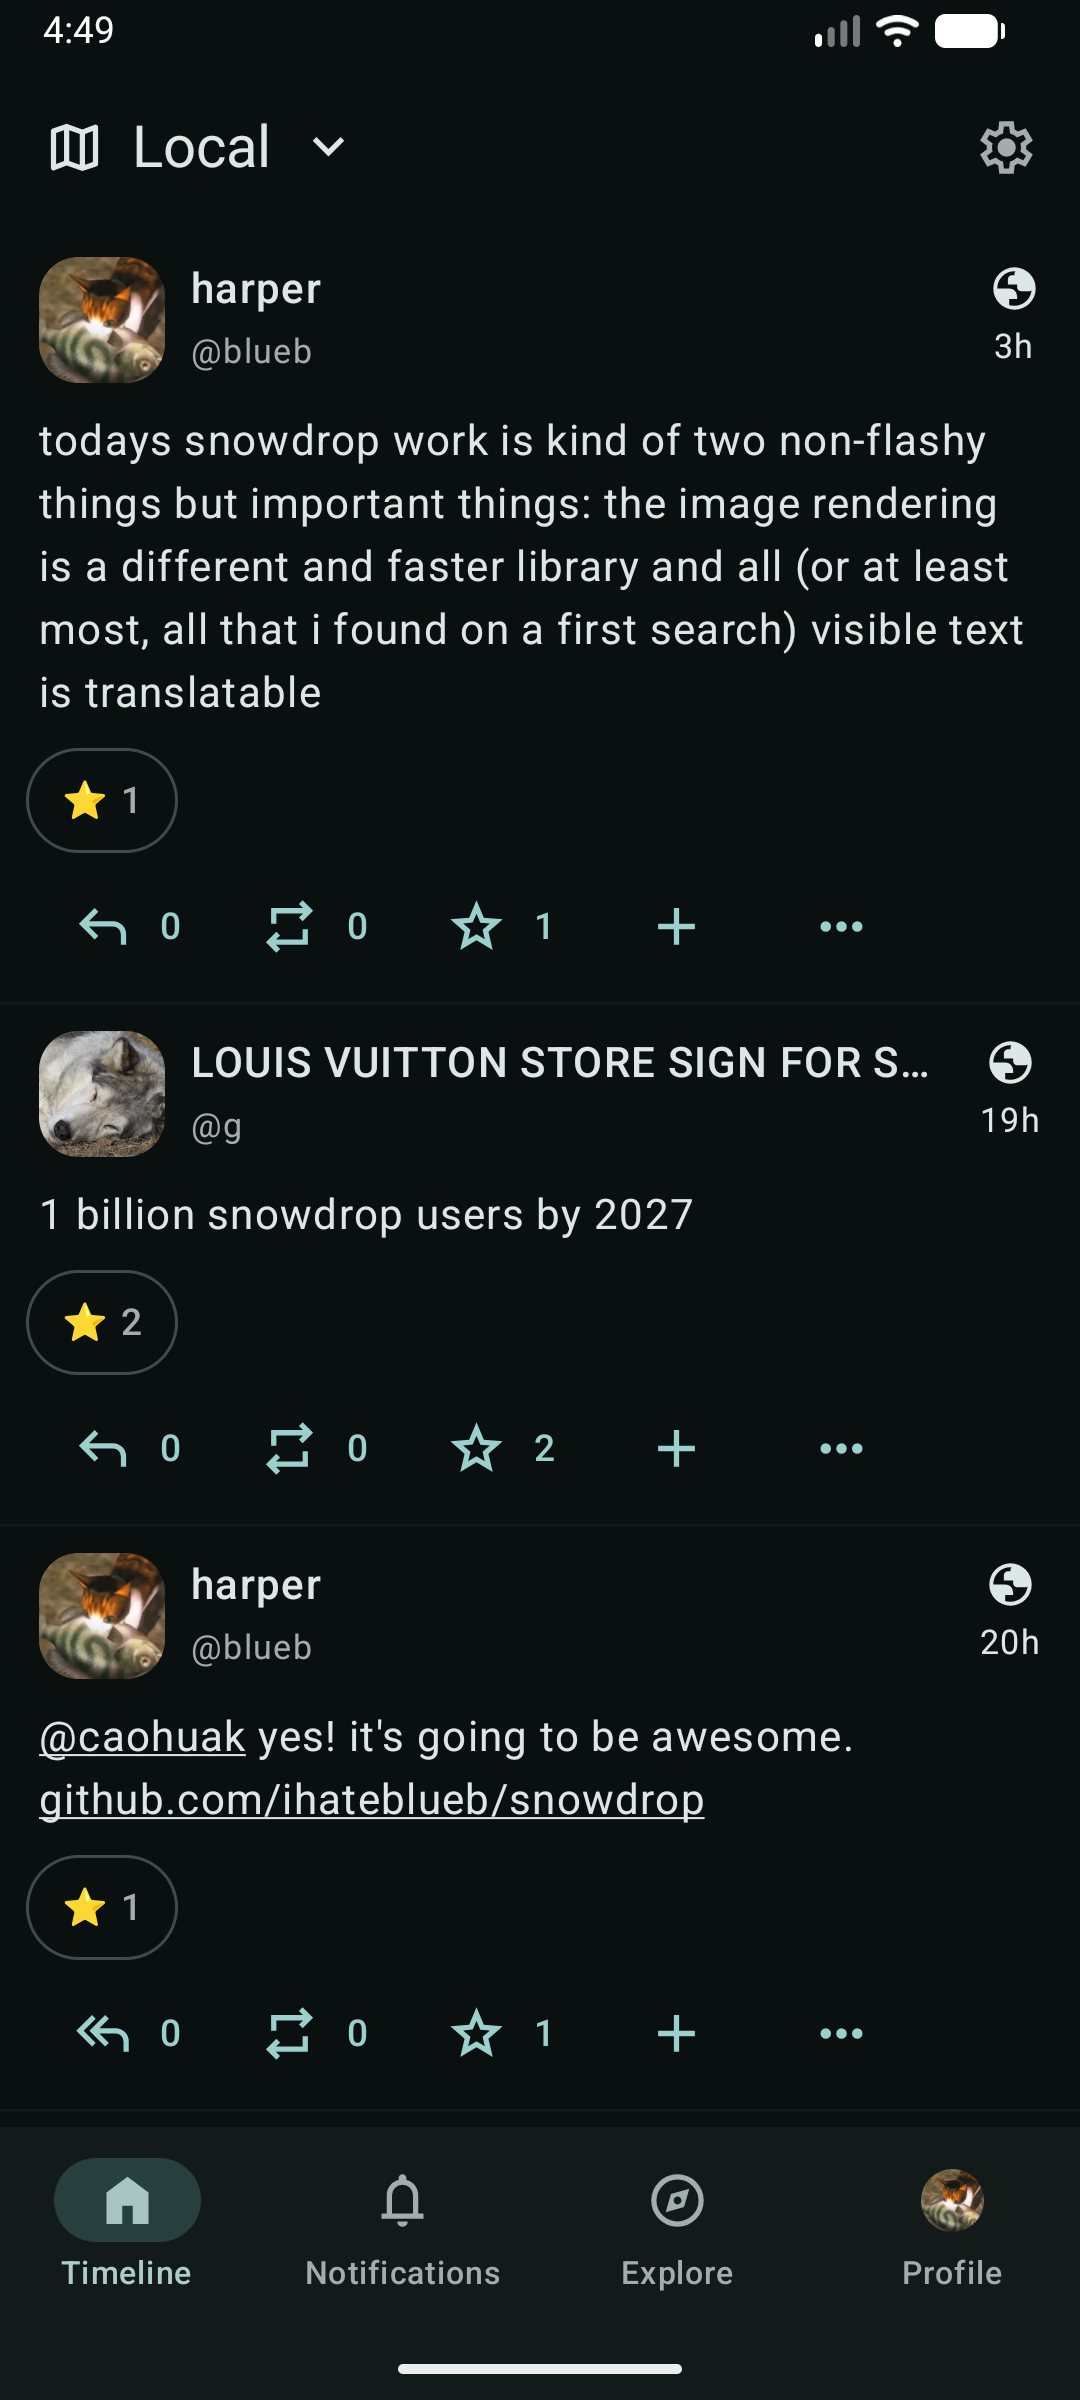
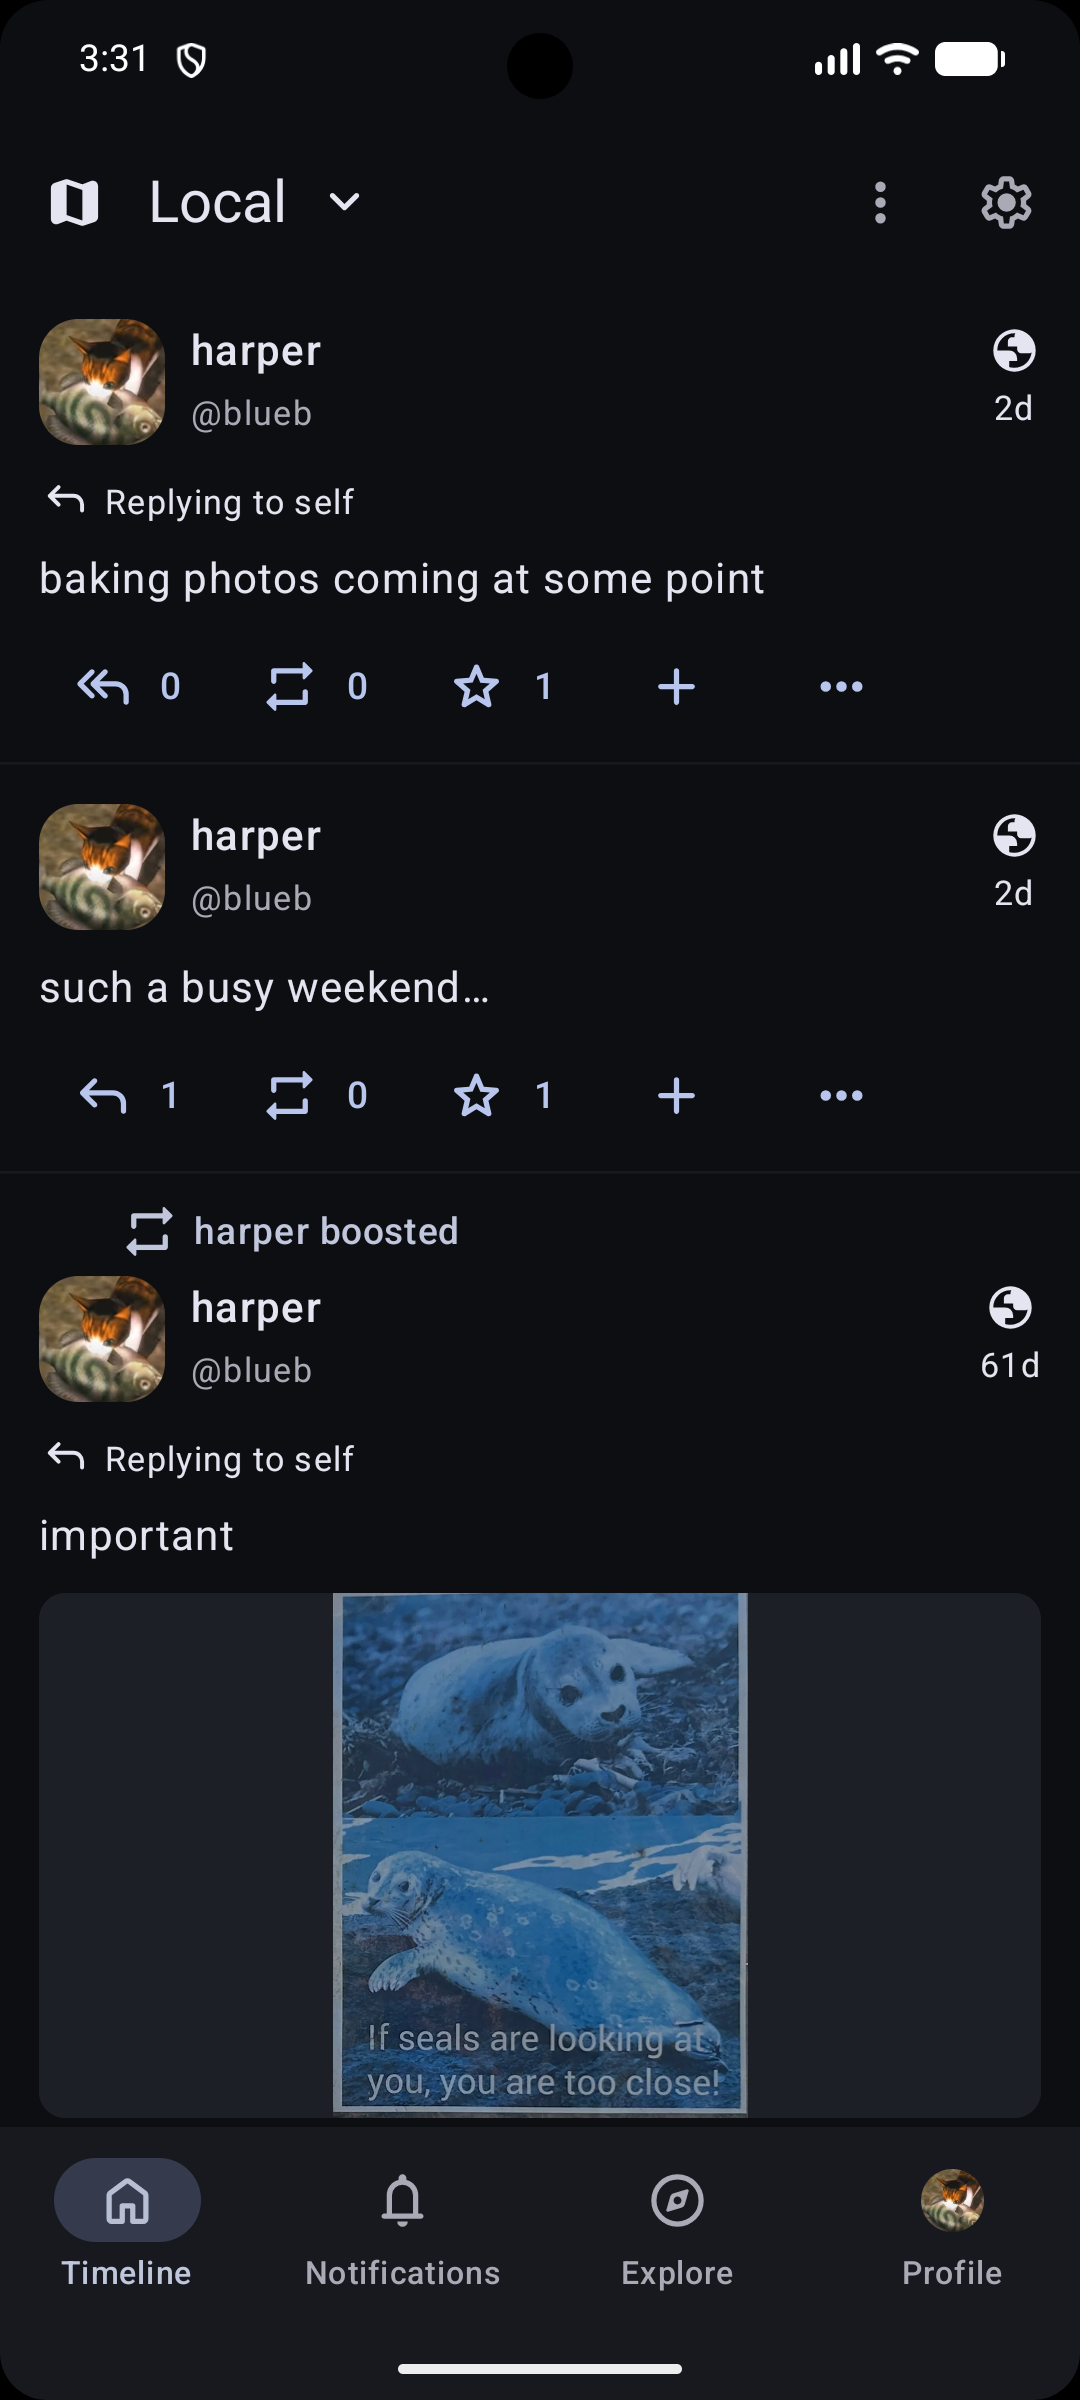
[docs] update screenshots

diff --git a/README.md b/README.md
@@ -7,8 +7,8 @@
 </h1>
 
 [![Translation status](https://translate.codeberg.org/widget/snowdrop/svg-badge.svg)](https://translate.codeberg.org/engage/snowdrop/)
-![Kotlin Multiplatform](.github/assets/badge/kotlin_multiplatform.svg)
 [![Zulip](.github/assets/badge/zulip.svg)](https://chat.iceshrimp.dev/#narrow/channel/12-snowdrop)
+![Kotlin Multiplatform](.github/assets/badge/kotlin_multiplatform.svg)
 
 An attempt to make a Mastodon client that is multiplatform (iOS and Android)
 and supports extensions brought by Mastodon API compatible software
@@ -20,13 +20,18 @@ Uses Material 3 (supporting dynamic color schemes) for UI and icons.
 
 <div style="display: flex; align-content: center; gap: 10px;">
 	<img src=".github/assets/timeline.png" height="250px">
-	<img src=".github/assets/filtered_notifications.png" height="250px">
+	<img src=".github/assets/thread.png" height="250px">
+	<img src=".github/assets/notifications.png" height="250px">
 	<img src=".github/assets/post_search.png" height="250px">
 	<img src=".github/assets/user_search.png" height="250px">
-	<img src=".github/assets/settings.png" height="250px">
+	<img src=".github/assets/reaction_picker.png" height="250px">
+	<img src=".github/assets/image_viewer_alt.png" height="250px">
+	<img src=".github/assets/post_composer.png" height="250px">
+	<img src=".github/assets/settings_1.png" height="250px">
+	<img src=".github/assets/settings_2.png" height="250px">
 	<img src=".github/assets/account_switcher.png" height="250px">
-	<img src=".github/assets/profile_top.png" height="250px">
-	<img src=".github/assets/profile_bottom.png" height="250px">
+	<img src=".github/assets/profile_1.png" height="250px">
+	<img src=".github/assets/profile_2.png" height="250px">
 </div>
 
 ## Software Compatibility
